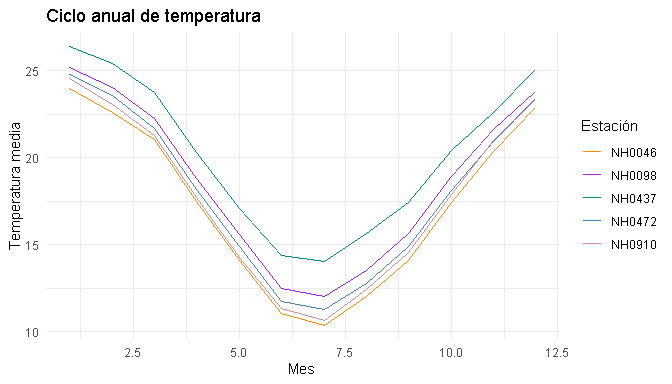
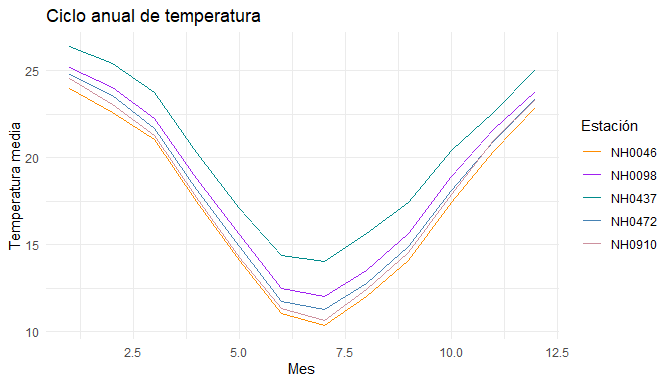
tabla_resumen_temperatura() recibe la variable como texto
Por defecto resume temperatura_abrigo_150cm, como pide el ejercicio, y
se puede pasar otra columna entre comillas. Se usa el pronombre .data
de rlang (capitulo de tests) en lugar de enquo() y as_name(). Los tests
comparan con valores calculados a mano y chequean cada mensaje de error.

diff --git a/README.md b/README.md
@@ -52,7 +52,7 @@ temperatura de cada estación:
 ``` r
 library(estaciones)
 
-tabla_resumen_temperatura(estaciones, temperatura_abrigo_150cm)
+tabla_resumen_temperatura(estaciones)
 #> # A tibble: 2 × 6
 #>   variable NH0046 NH0098 NH0437 NH0472 NH0910
 #>   <chr>     <dbl>  <dbl>  <dbl>  <dbl>  <dbl>
